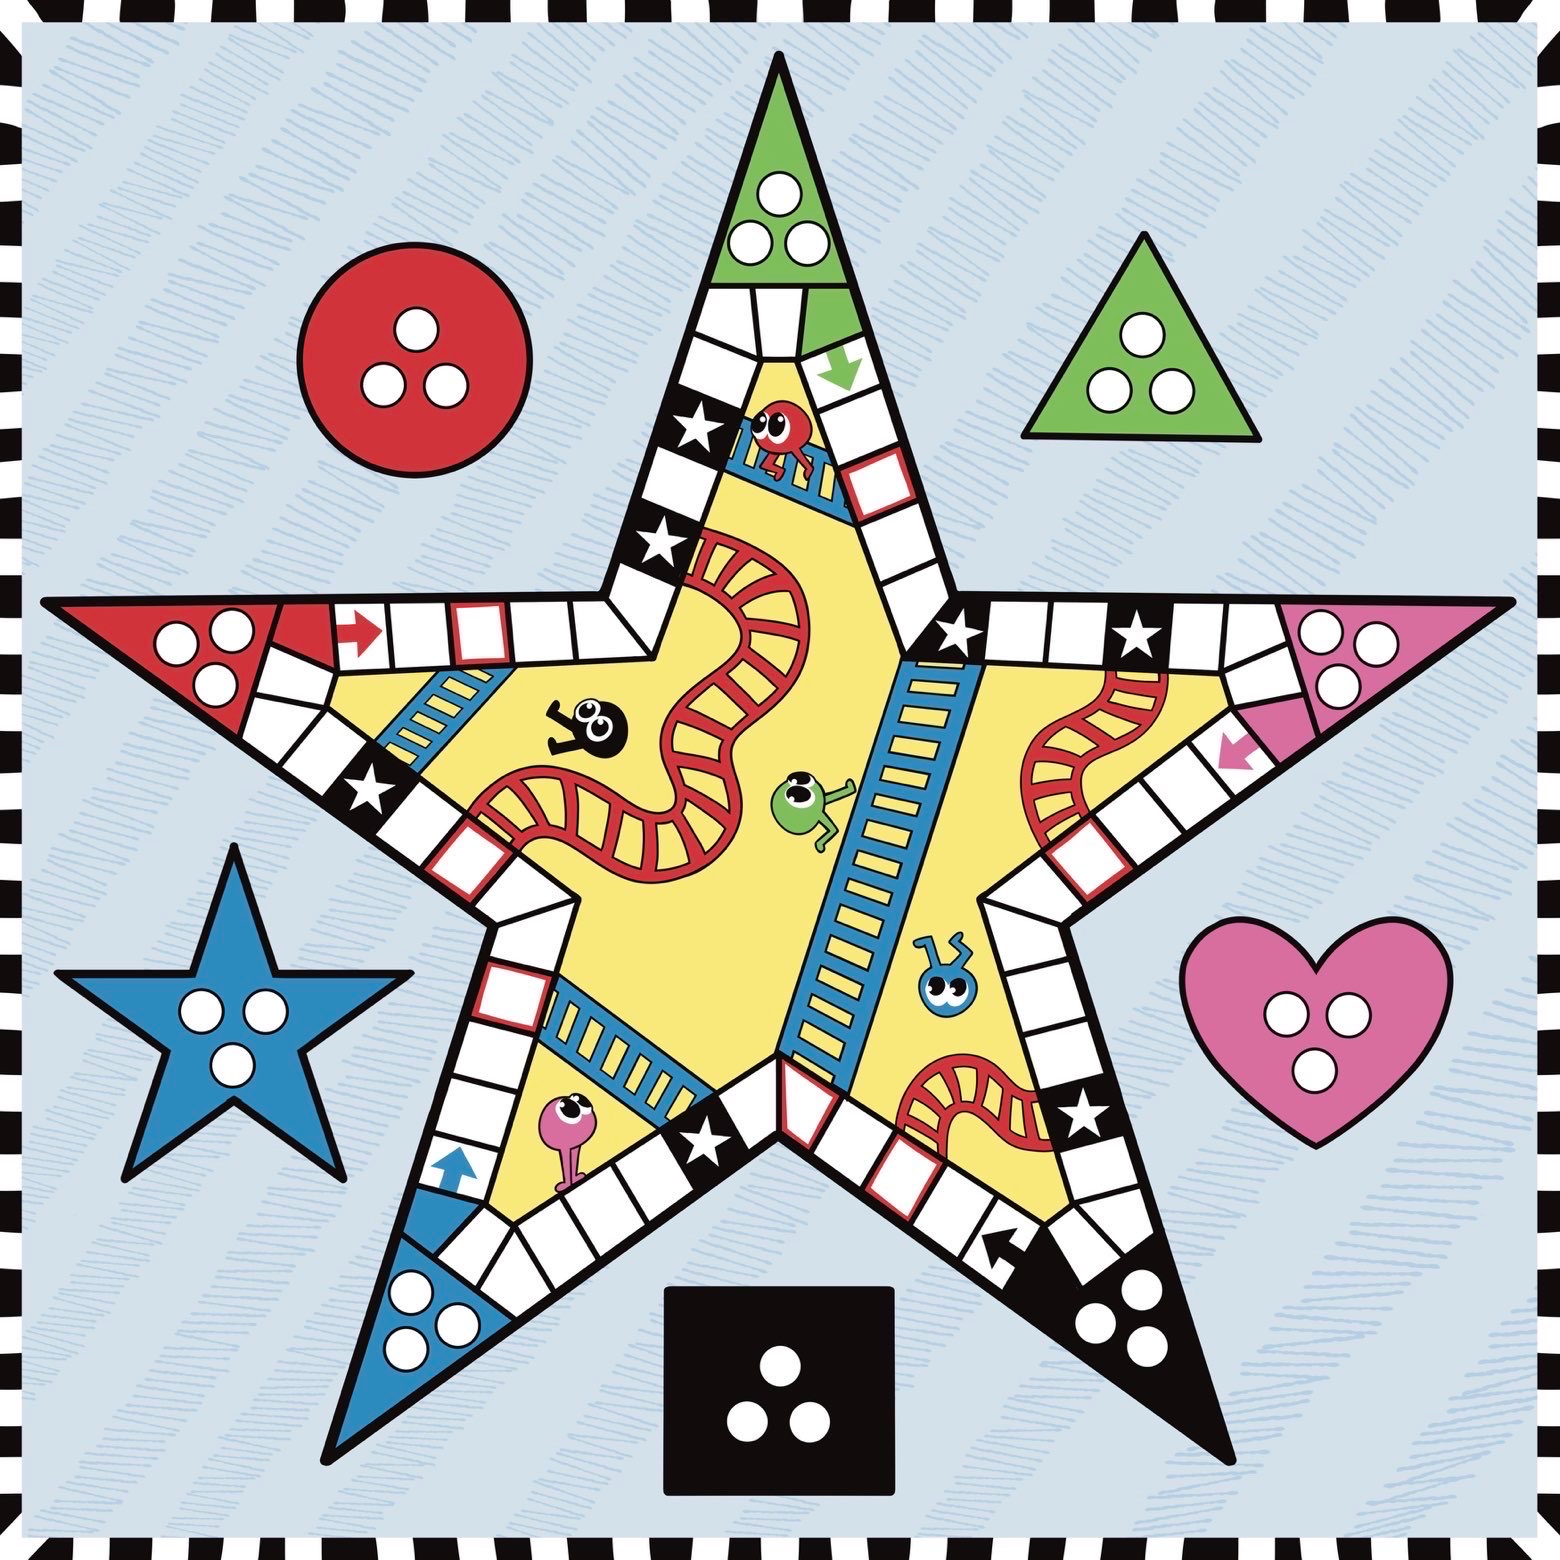
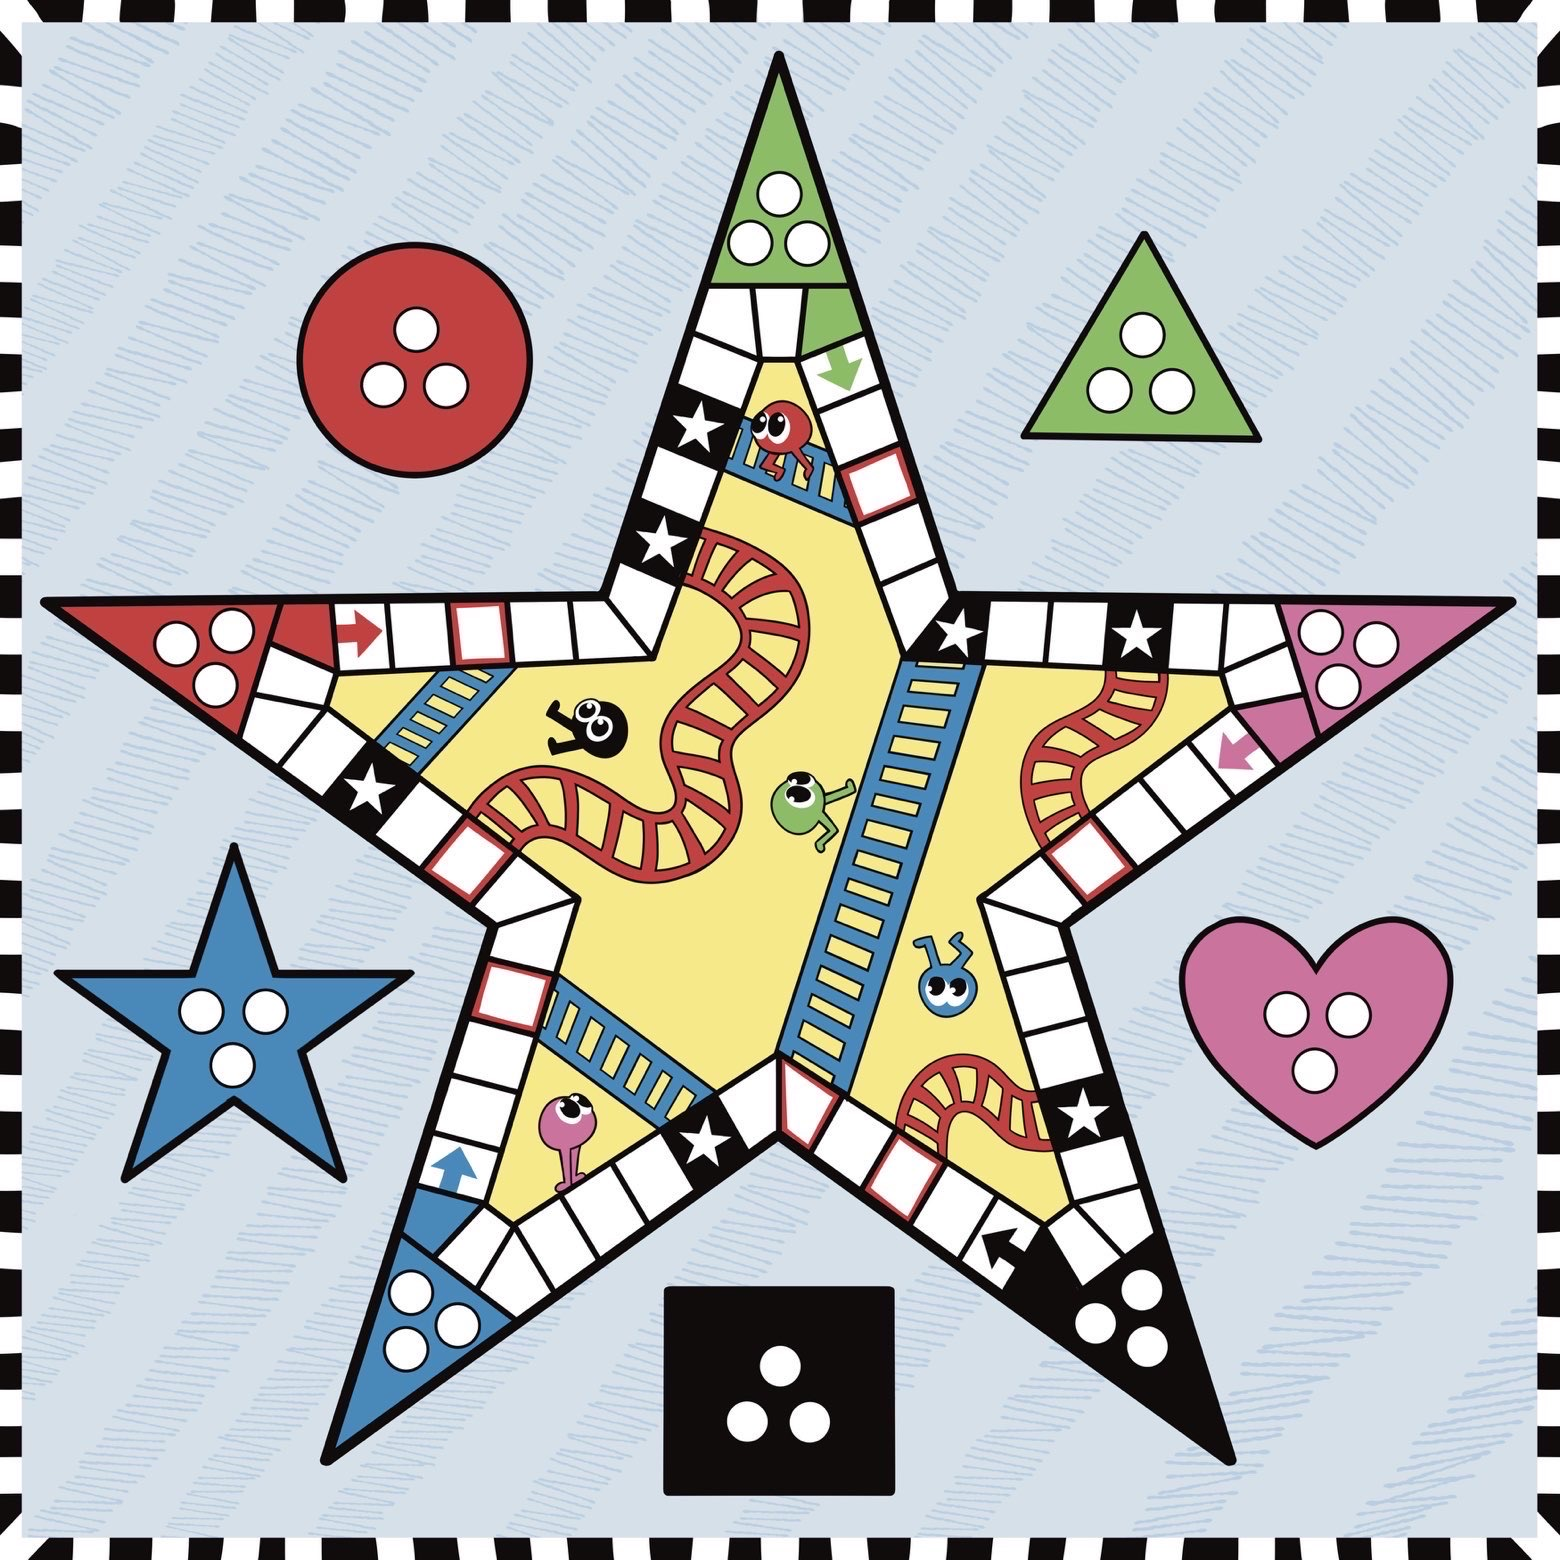
made slight adjustments

diff --git a/src/routes/+page.svelte b/src/routes/+page.svelte
@@ -3,15 +3,23 @@
   import game from "$lib/assets/game.png";
 </script>
 
-<header>
-  <h1>Stjernespill</h1>
-  <p>
-    Vi er en ungdomsbedrift fra Amalie Skram som selger brettspill
-    tilpasset barn med synsnedsettelser🤩🥰
-  </p>
+<header class="header1">
+  <div class="text">
+    <h1>Stjernespill UB</h1>
+    <h3>
+      Vi lager brettspill som er spesielt tilpasset svaksynte mennesker!
+    </h3>
+    <p>
+      Skole: Amalie Skram VGS <br />
+      Skoleår: 2025/2026 <br />
+      Kontakt: stjernespillub@gmail.com
+    </p>
+  </div>
+
+  <img src={logo} alt="Logo" />
 </header>
 
-<img src={game} alt="Spill" class="inline-img" />
+<img src={game} alt="Spill" class="inline-left" />
 
 <p>
   Lorem ipsum dolor sit amet, consectetur adipiscing elit. Maecenas leo
@@ -71,3 +79,20 @@
   maximus augue, vitae ultrices sapien dapibus eu. Integer maximus
   sollicitudin nisi, consequat sagittis enim convallis non.
 </p>
+
+
+<style>
+  .header1 {
+    display: flex;
+    flex-direction: row;
+    justify-content: space-between;
+    place-items: flex-start;
+    padding-bottom: 3rem;
+    gap: 3rem;
+    img {
+      border-radius: 12px;
+      width: auto;
+      height: 25rem;
+    }
+  }
+</style>

diff --git a/src/lib/components/nav.svelte b/src/lib/components/nav.svelte
@@ -1,15 +1,12 @@
 <script lang="ts">
-  import logo from "$lib/assets/logo.png";
   import { base } from "$app/paths";
 </script>
 
 <nav id="nav">
-  <img src={logo} alt="Stjernespill logo" />
   <ul>
     <li><a href="{base}">Hjem</a></li>
     <li><a href="{base}/about">Om oss</a></li>
   </ul>
-  <div></div>
 </nav>
 
 <style>
@@ -21,13 +18,8 @@
     color: var(--bg);
     padding: 0.5rem;
     display: grid;
-    grid-template-columns: 1fr auto 1fr;
+    grid-template-columns: 1fr;
     align-items: center;
-
-    img {
-      height: 3rem;
-      border-radius: 50%;
-    }
 
     > ul {
       list-style: none;
@@ -41,6 +33,7 @@
         color: inherit;
         display: inline-block;
         transition: transform 200ms ease;
+        font-size: 2rem;
 
         &:hover {
           text-decoration: underline;

diff --git a/src/app.css b/src/app.css
@@ -26,19 +26,31 @@ body {
 }
 
 main {
-	padding: 2rem;
+	padding: 2rem 5rem;
 	flex: 1;
 }
 
 header {
-	text-align: center;
+	text-align: left;
 	line-height: 4rem;
+	font-size: 1.5rem;
+	h1 {
+		font-size: 5rem;
+		margin-bottom: 0;	
+	}
 }
 
-.inline-img {
-	float: left;
+.inline-left, .inline-right {
 	width: 25rem;
 	height: auto;
 	margin-right: 1rem;
 	margin-bottom: 1rem;
+}
+
+.inline-left {
+	float: left;
+}
+
+.inline-right {
+	float: right;
 }
